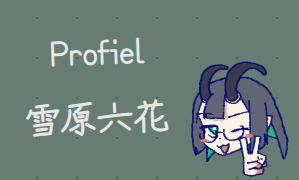
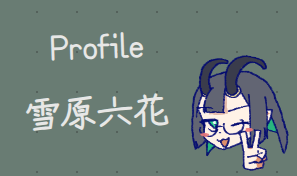
typo

diff --git a/index.html b/index.html
@@ -3,7 +3,7 @@
 <head>
     <meta charset="utf-8">
     <meta name="viewport" content="width=device-width, initial-scale=1.0">
-    <title>Profiel</title>
+    <title>Profile</title>
     <link rel="stylesheet" type="text/css" href="style.css">
 
     <link rel="preconnect" href="https://fonts.googleapis.com">
@@ -20,7 +20,7 @@
 
         <div class="title-wrap">
                     <span class="pin-top"></span>
-            <h1>Profiel</h1>
+            <h1>Profile</h1>
         </div>
 
         <div class="name-wrap">
